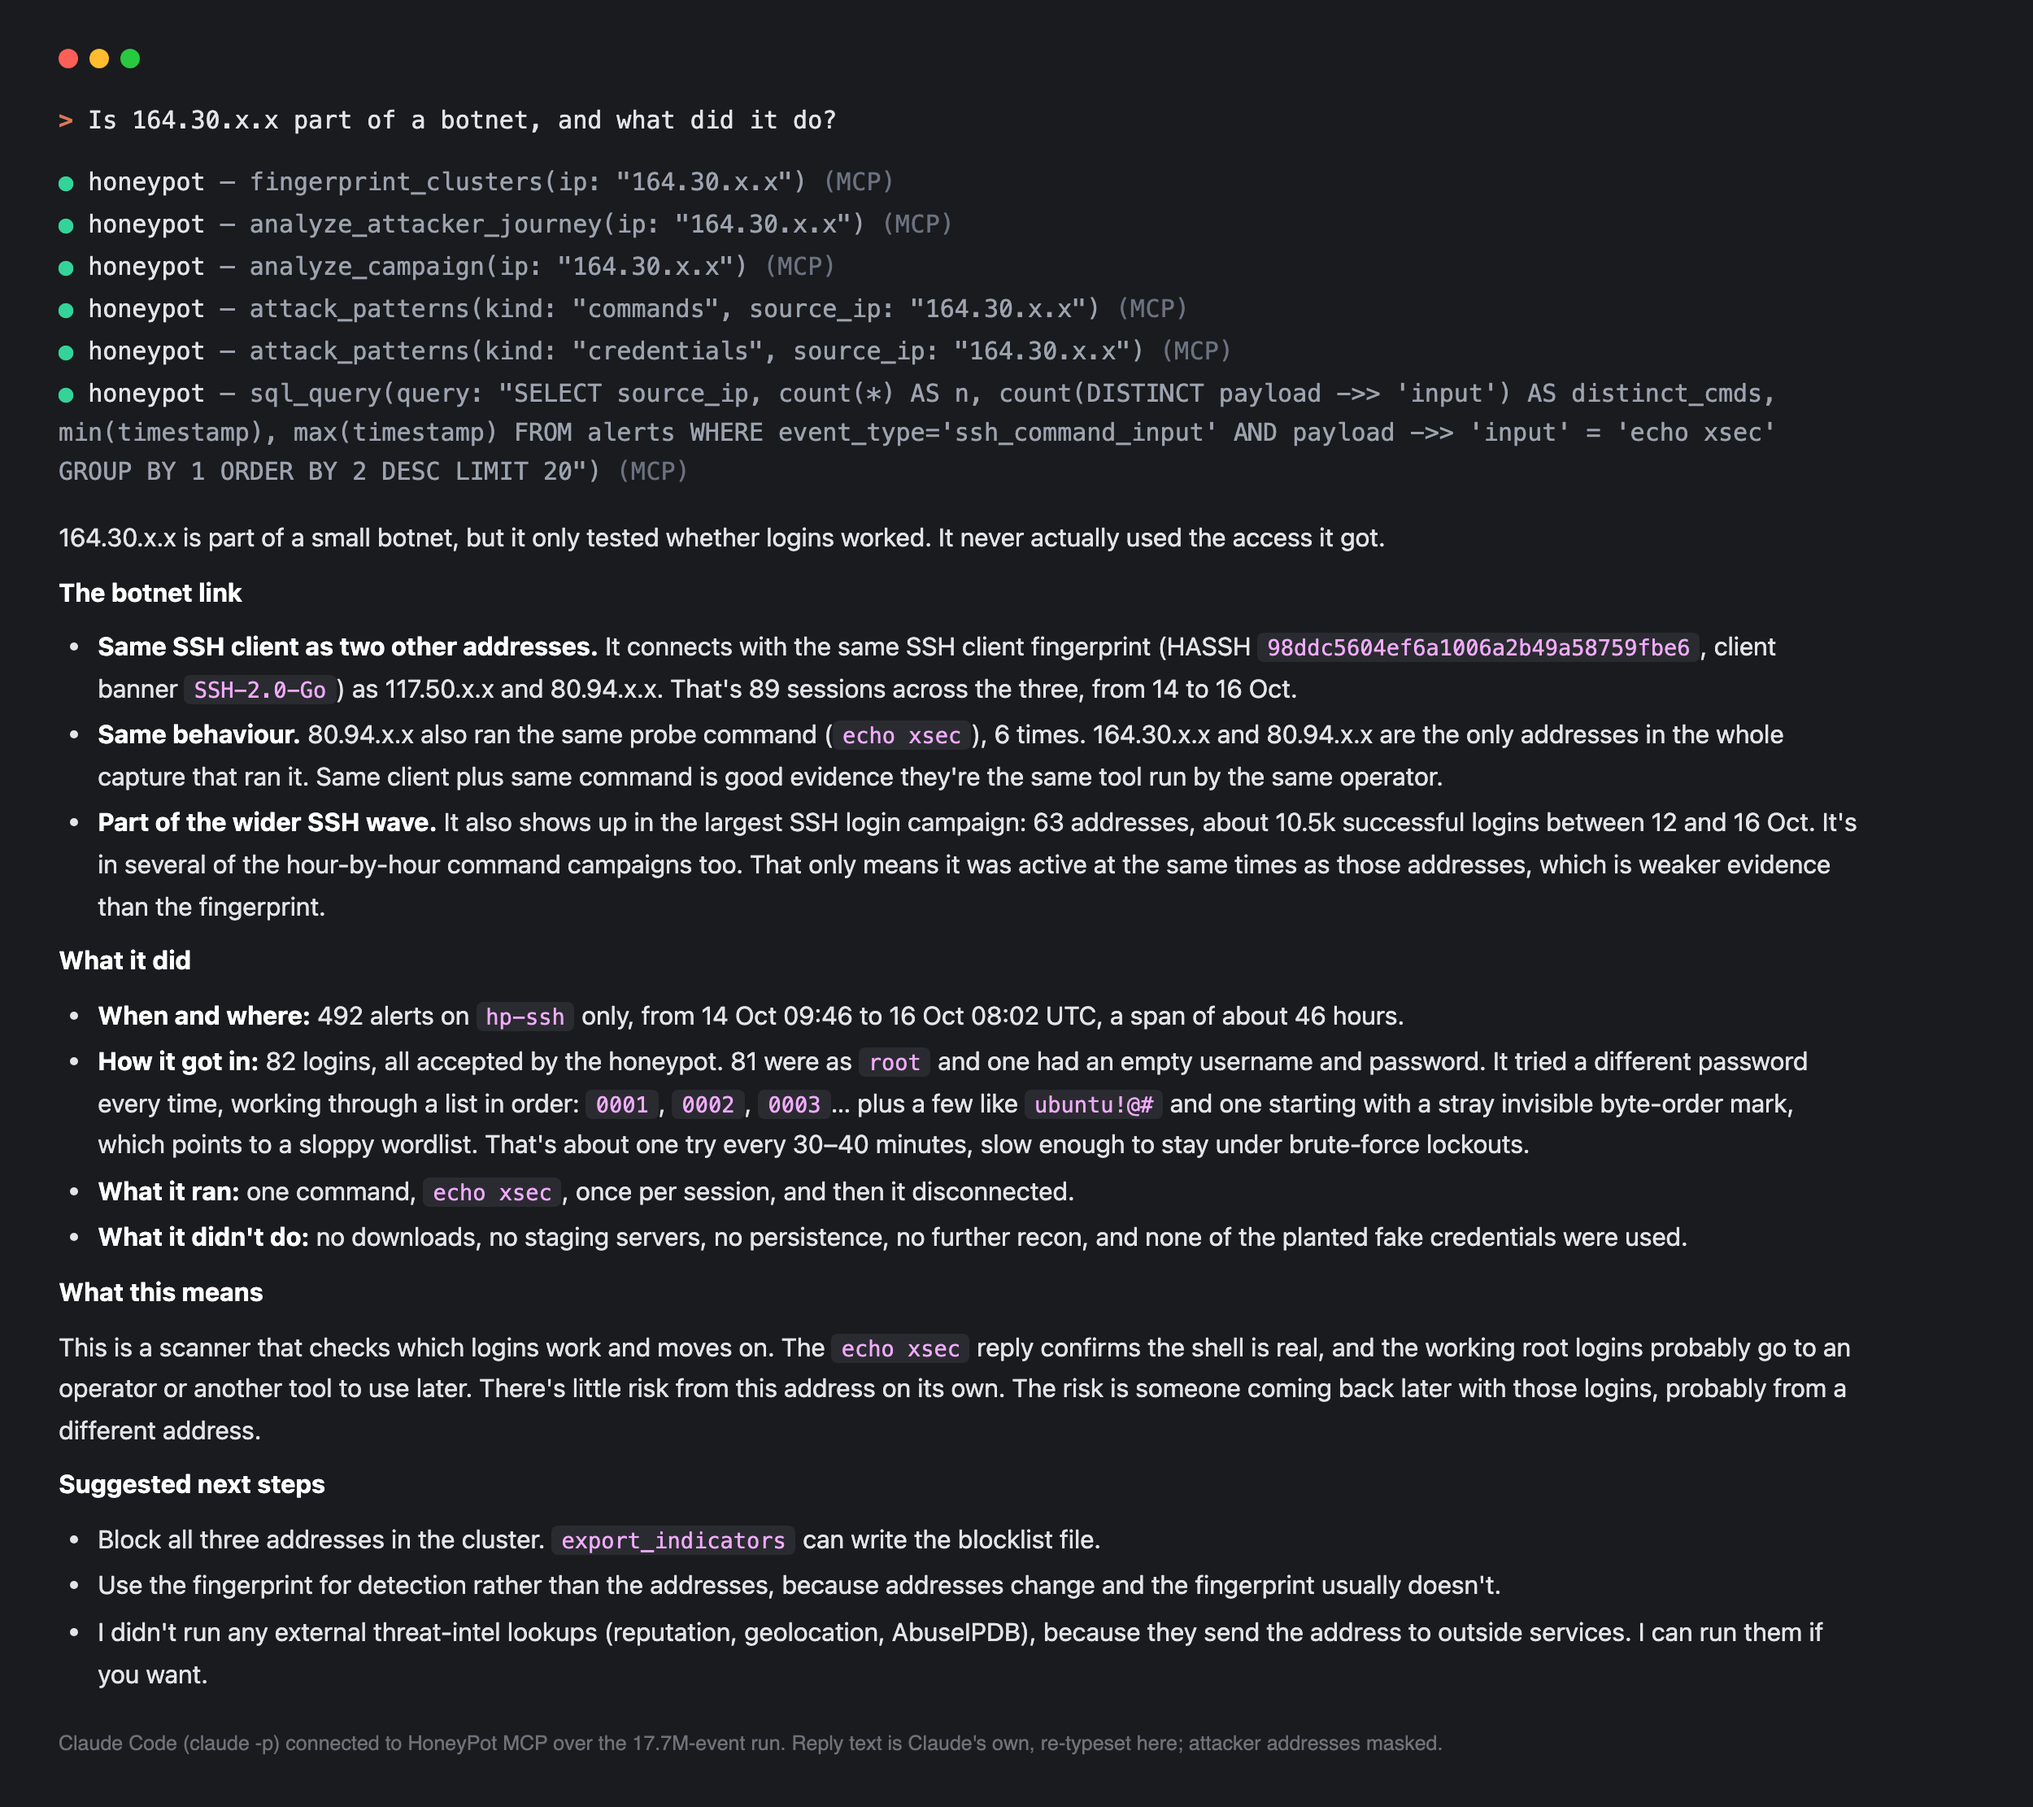
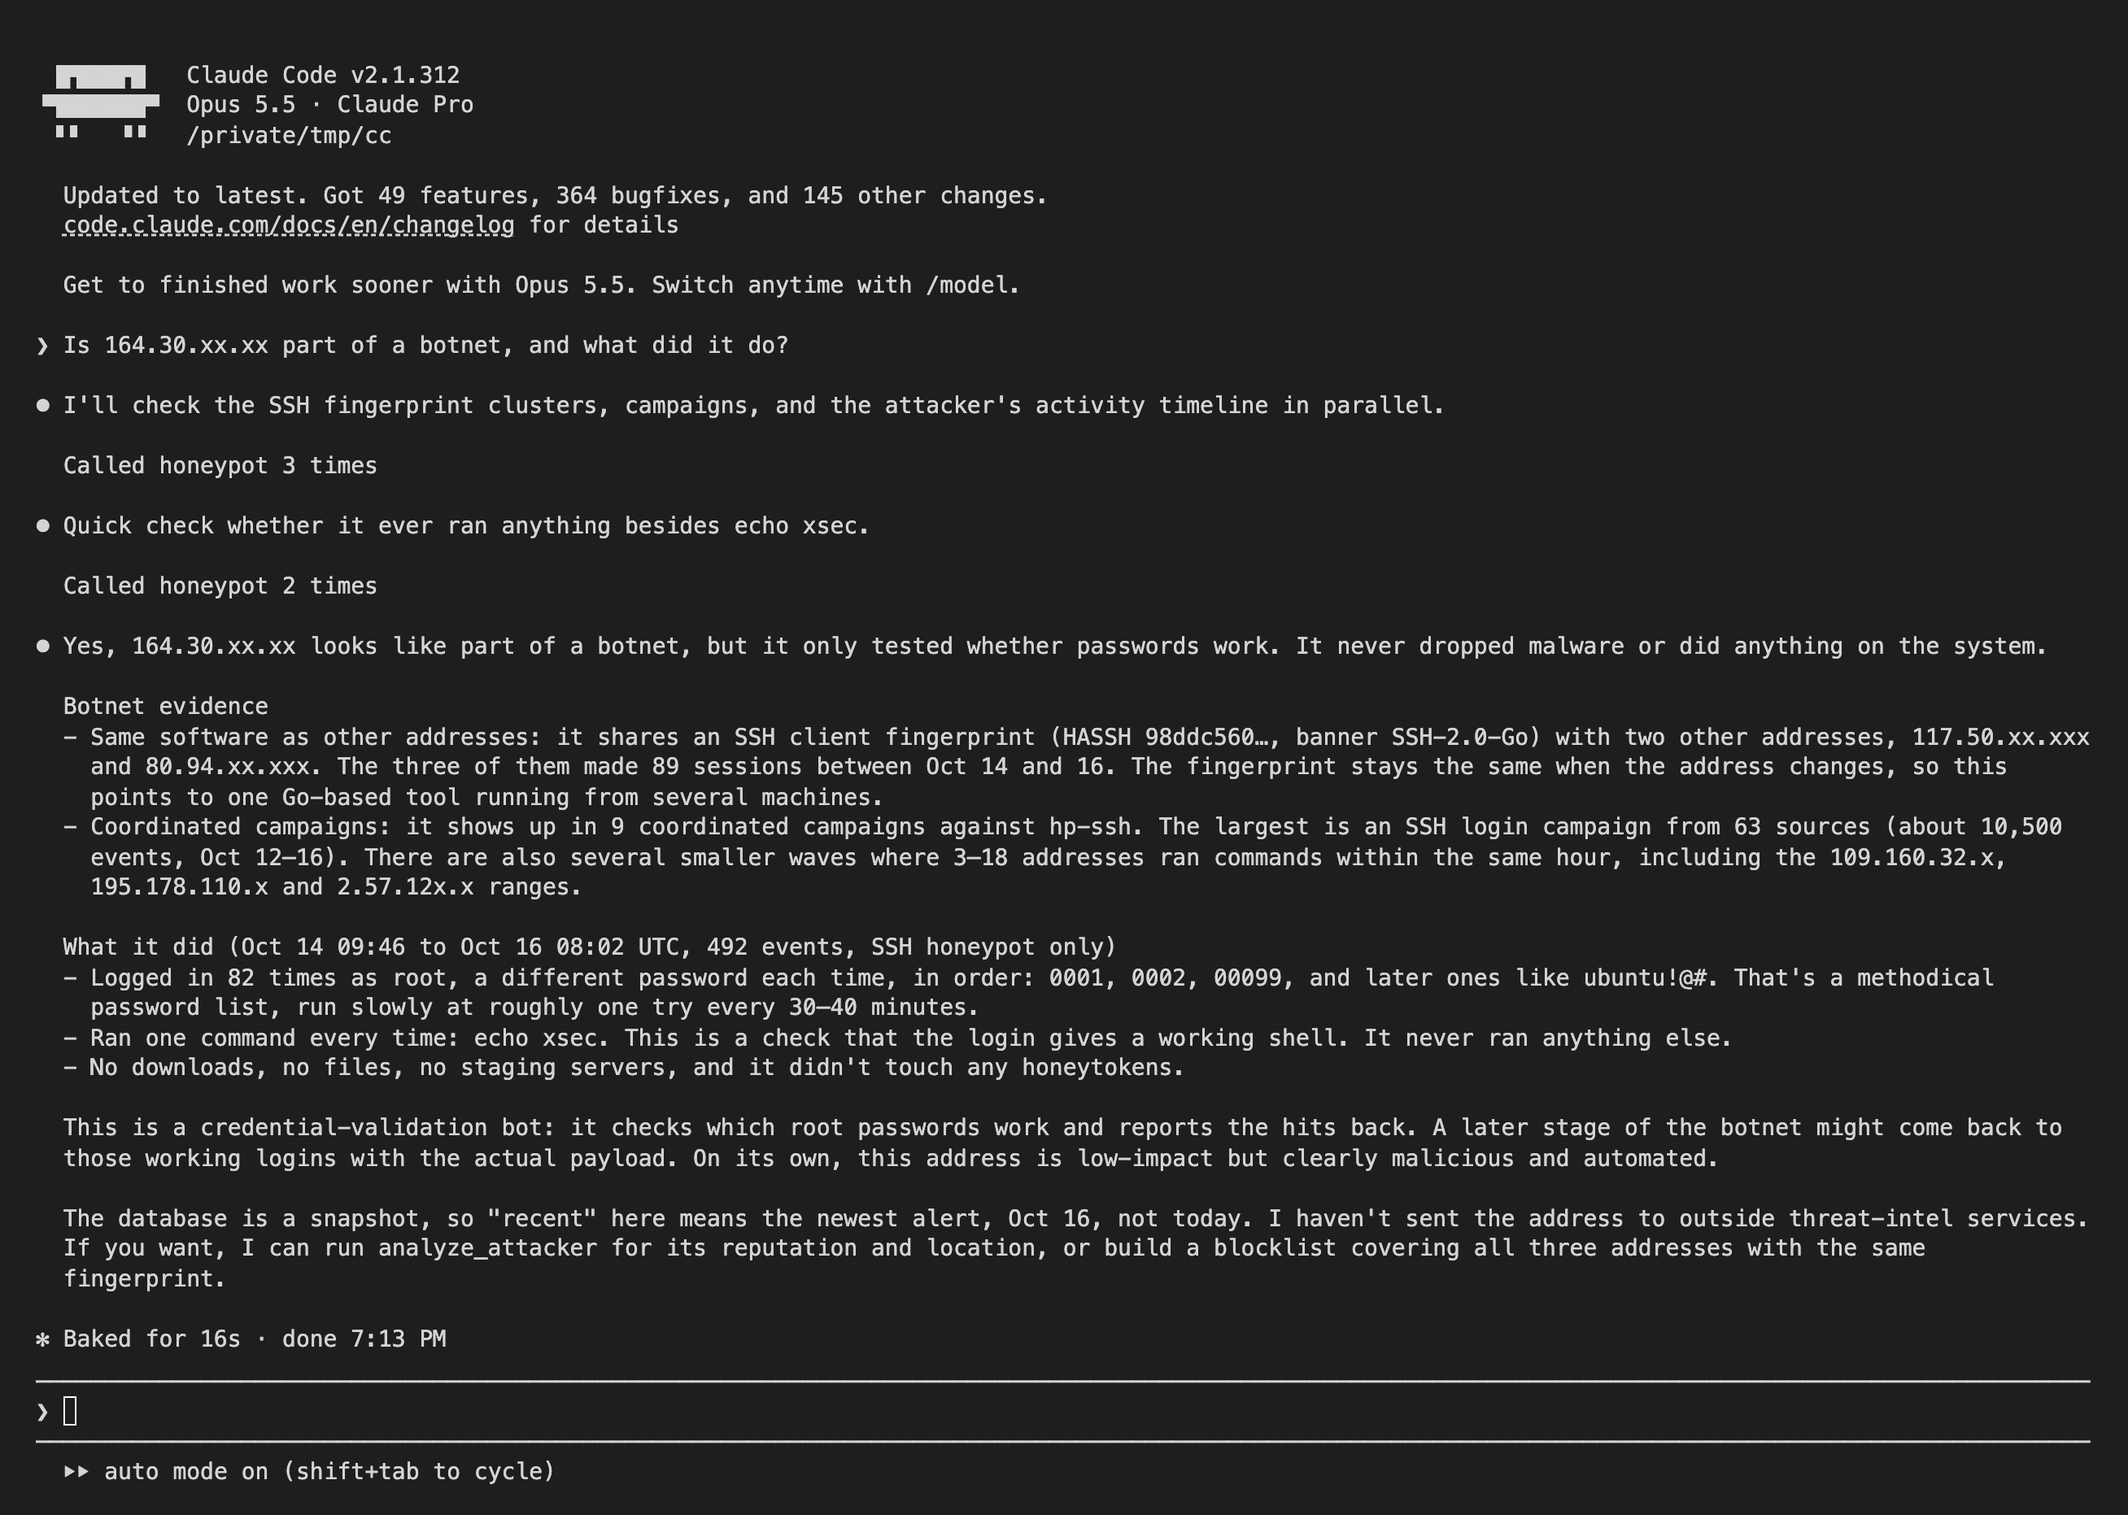
docs: real Claude Code sessions (not re-typeset), SQL query and Grafana Query captures
claude-code/*.png are the actual interactive Claude Code screens, captured through a pty and drawn
with xterm.js; addresses masked in place at constant length, empty rows collapsed. Replaces the
earlier re-typeset transcripts. real-run/final-query.png is the Grafana Query dashboard.

Changed region(s): [[0.0, 0.0311, 0.9672, 0.9962], [0.8736, 0.6227, 0.936, 0.6538]]

diff --git a/docs/screenshots/README.md b/docs/screenshots/README.md
@@ -51,6 +51,7 @@ not regenerated by the script above.
 | `real-run/final-threat-map.png` | Grafana threat map on the final database: origins, top countries, unique attackers over time |
 | `real-run/final-mitre-coverage.png` | Grafana ATT&CK dashboard on the final database: tactic bars, event types, tactic timeline |
 | `real-run/final-alerts.png` | Grafana alert browser (filters and newest alerts) on the final database |
+| `real-run/final-query.png` | Grafana **Query** dashboard: ad-hoc SQL over `alert_rollups` (the same read-only SQL surface as the `sql_query` tool) |
 
 The first group (`overview`, `threat-map`, `mitre-coverage`) are crops taken while the run was still
 going, so their counts are lower than the final figures in RESULTS.md; each caption there says when
@@ -60,22 +61,38 @@ one to two minutes over 17.7M rows).
 
 ## Claude Code sessions (captured)
 
-Real `claude -p` sessions with the server connected, asking plain questions of the final database.
-The reply text is Claude's own; the layout is re-typeset to look like a terminal, and the tool-call
-lines show which tools it chose. One closing remark about a private note-taking setup was removed
-from two replies. Claude's prose includes its own inferences (for example "the same operator"), which
-are not facts the tools return.
+Real, interactive Claude Code sessions with the server connected, asking plain questions of the final
+database. Each image is the actual Claude Code screen: the client's own layout, tool-call lines
+("Called honeypot", collapsed as Claude Code shows them), reply and prompt box. Nothing was
+re-typeset. They were captured by running `claude` in a pseudo-terminal and drawing its raw terminal
+output with xterm.js in headless Chromium, with its tools limited to the honeypot server. Two
+things were done to the capture, and nothing else:
 
-| File | Question |
+- attacker addresses were masked in place, keeping their length (`108.186.xx.xx`), so the layout is
+  untouched;
+- the empty rows between the reply and the prompt box were collapsed, as if the terminal window were
+  exactly as tall as the conversation.
+
+The grey text in the prompt box at the bottom of some images is Claude Code's own follow-up
+suggestion, not something typed. The model's prose includes its own inferences (for example "looks
+like an authorised tester" or "the same operator"), which are not facts the tools return. Two sessions
+ran on slightly different Claude Code versions; the banner shows which.
+
+| File | Question (and the tool that answers it; Claude Code collapses its calls to "Called honeypot") |
 |---|---|
-| `claude-code/shift-handover.png` | "Give me a shift handover for the whole run." |
-| `claude-code/is-this-a-botnet.png` | "Is 164.30.x.x part of a botnet, and what did it do?" (uses `fingerprint_clusters(ip=...)`) |
+| `claude-code/shift-handover.png` | "Give me a shift handover for the whole run." (`soc_brief` and follow-ups) |
+| `claude-code/bait-credential.png` | "Who used the public bait credential, and what did they do first?" (`bait_trips`) |
+| `claude-code/is-this-a-botnet.png` | "Is 164.30.x.x part of a botnet, and what did it do?" (`fingerprint_clusters(ip=...)`, journey, patterns) |
 | `claude-code/pcap-suricata-replay.png` | "Replay the attacker packet capture … through Suricata and tell me what it found." (`pcap_detect`) |
+| `claude-code/malware-samples.png` | "What malware did attackers try to drop, and what is in the captured files?" (`extract_iocs`, `sample_scan`) |
+| `claude-code/decoy-plan.png` | "Design decoys for a small Windows domain with a Postgres warehouse behind it. Don't deploy anything." (`deception_plan`) |
+| `claude-code/sql-query.png` | "Use SQL to show how many alerts per day each of the three busiest source addresses sent." (`sql_query` over `alert_rollups`) |
+| `claude-code/attack-navigator-layer.png` | "Give me an ATT&CK Navigator layer file for the whole run." (`generate_report`, `format=attack_navigator`) |
 
-**Source addresses.** The older `real-run/` crops show counts and countries only. The `final-*` and
-`claude-code/` images contain attacker addresses **masked to their first two octets** (`103.132.x.x`),
-including inside the Grafana tables (masked in the page before capture). Check a new capture for
-source addresses and credentials before committing it.
+**Source addresses.** The older `real-run/` crops show counts and countries only. The `final-*`
+captures contain attacker addresses **masked to their first two octets** (`103.132.x.x`), including
+inside the Grafana tables (masked in the page before capture); the `claude-code/` images mask the
+last two octets as above. Check a new capture for source addresses and credentials before committing it.
 
 ## Notes for whoever touches this next
 
